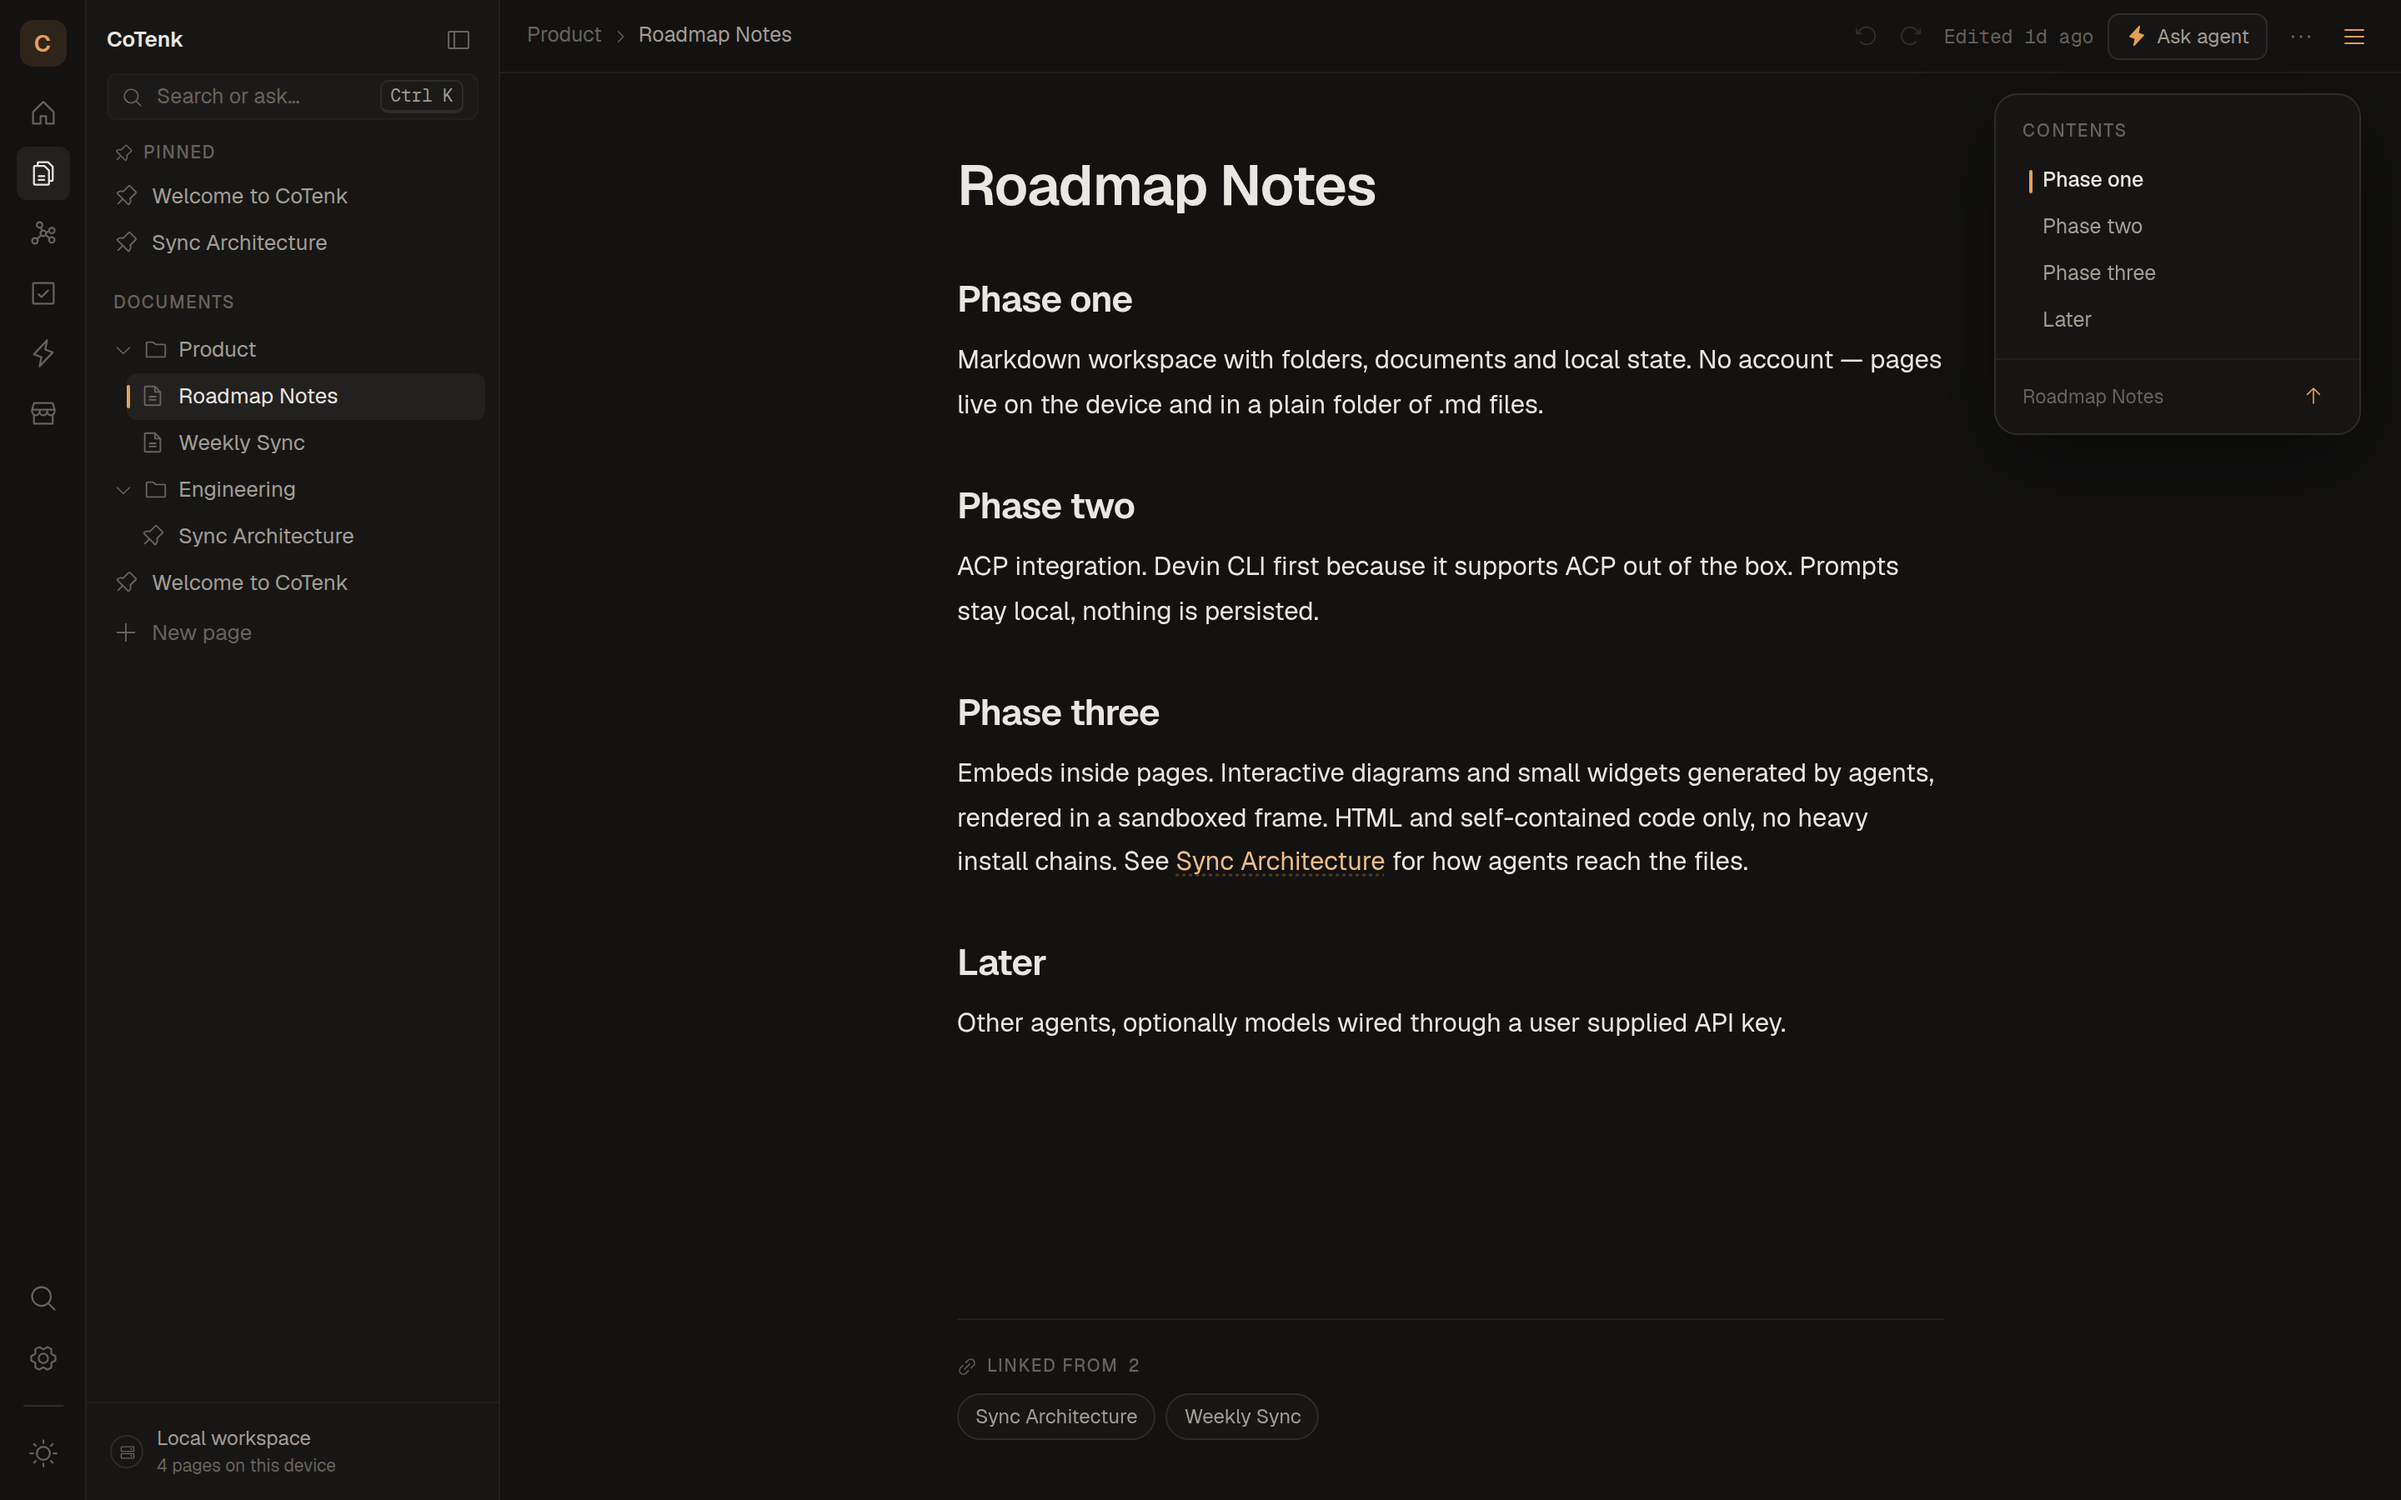
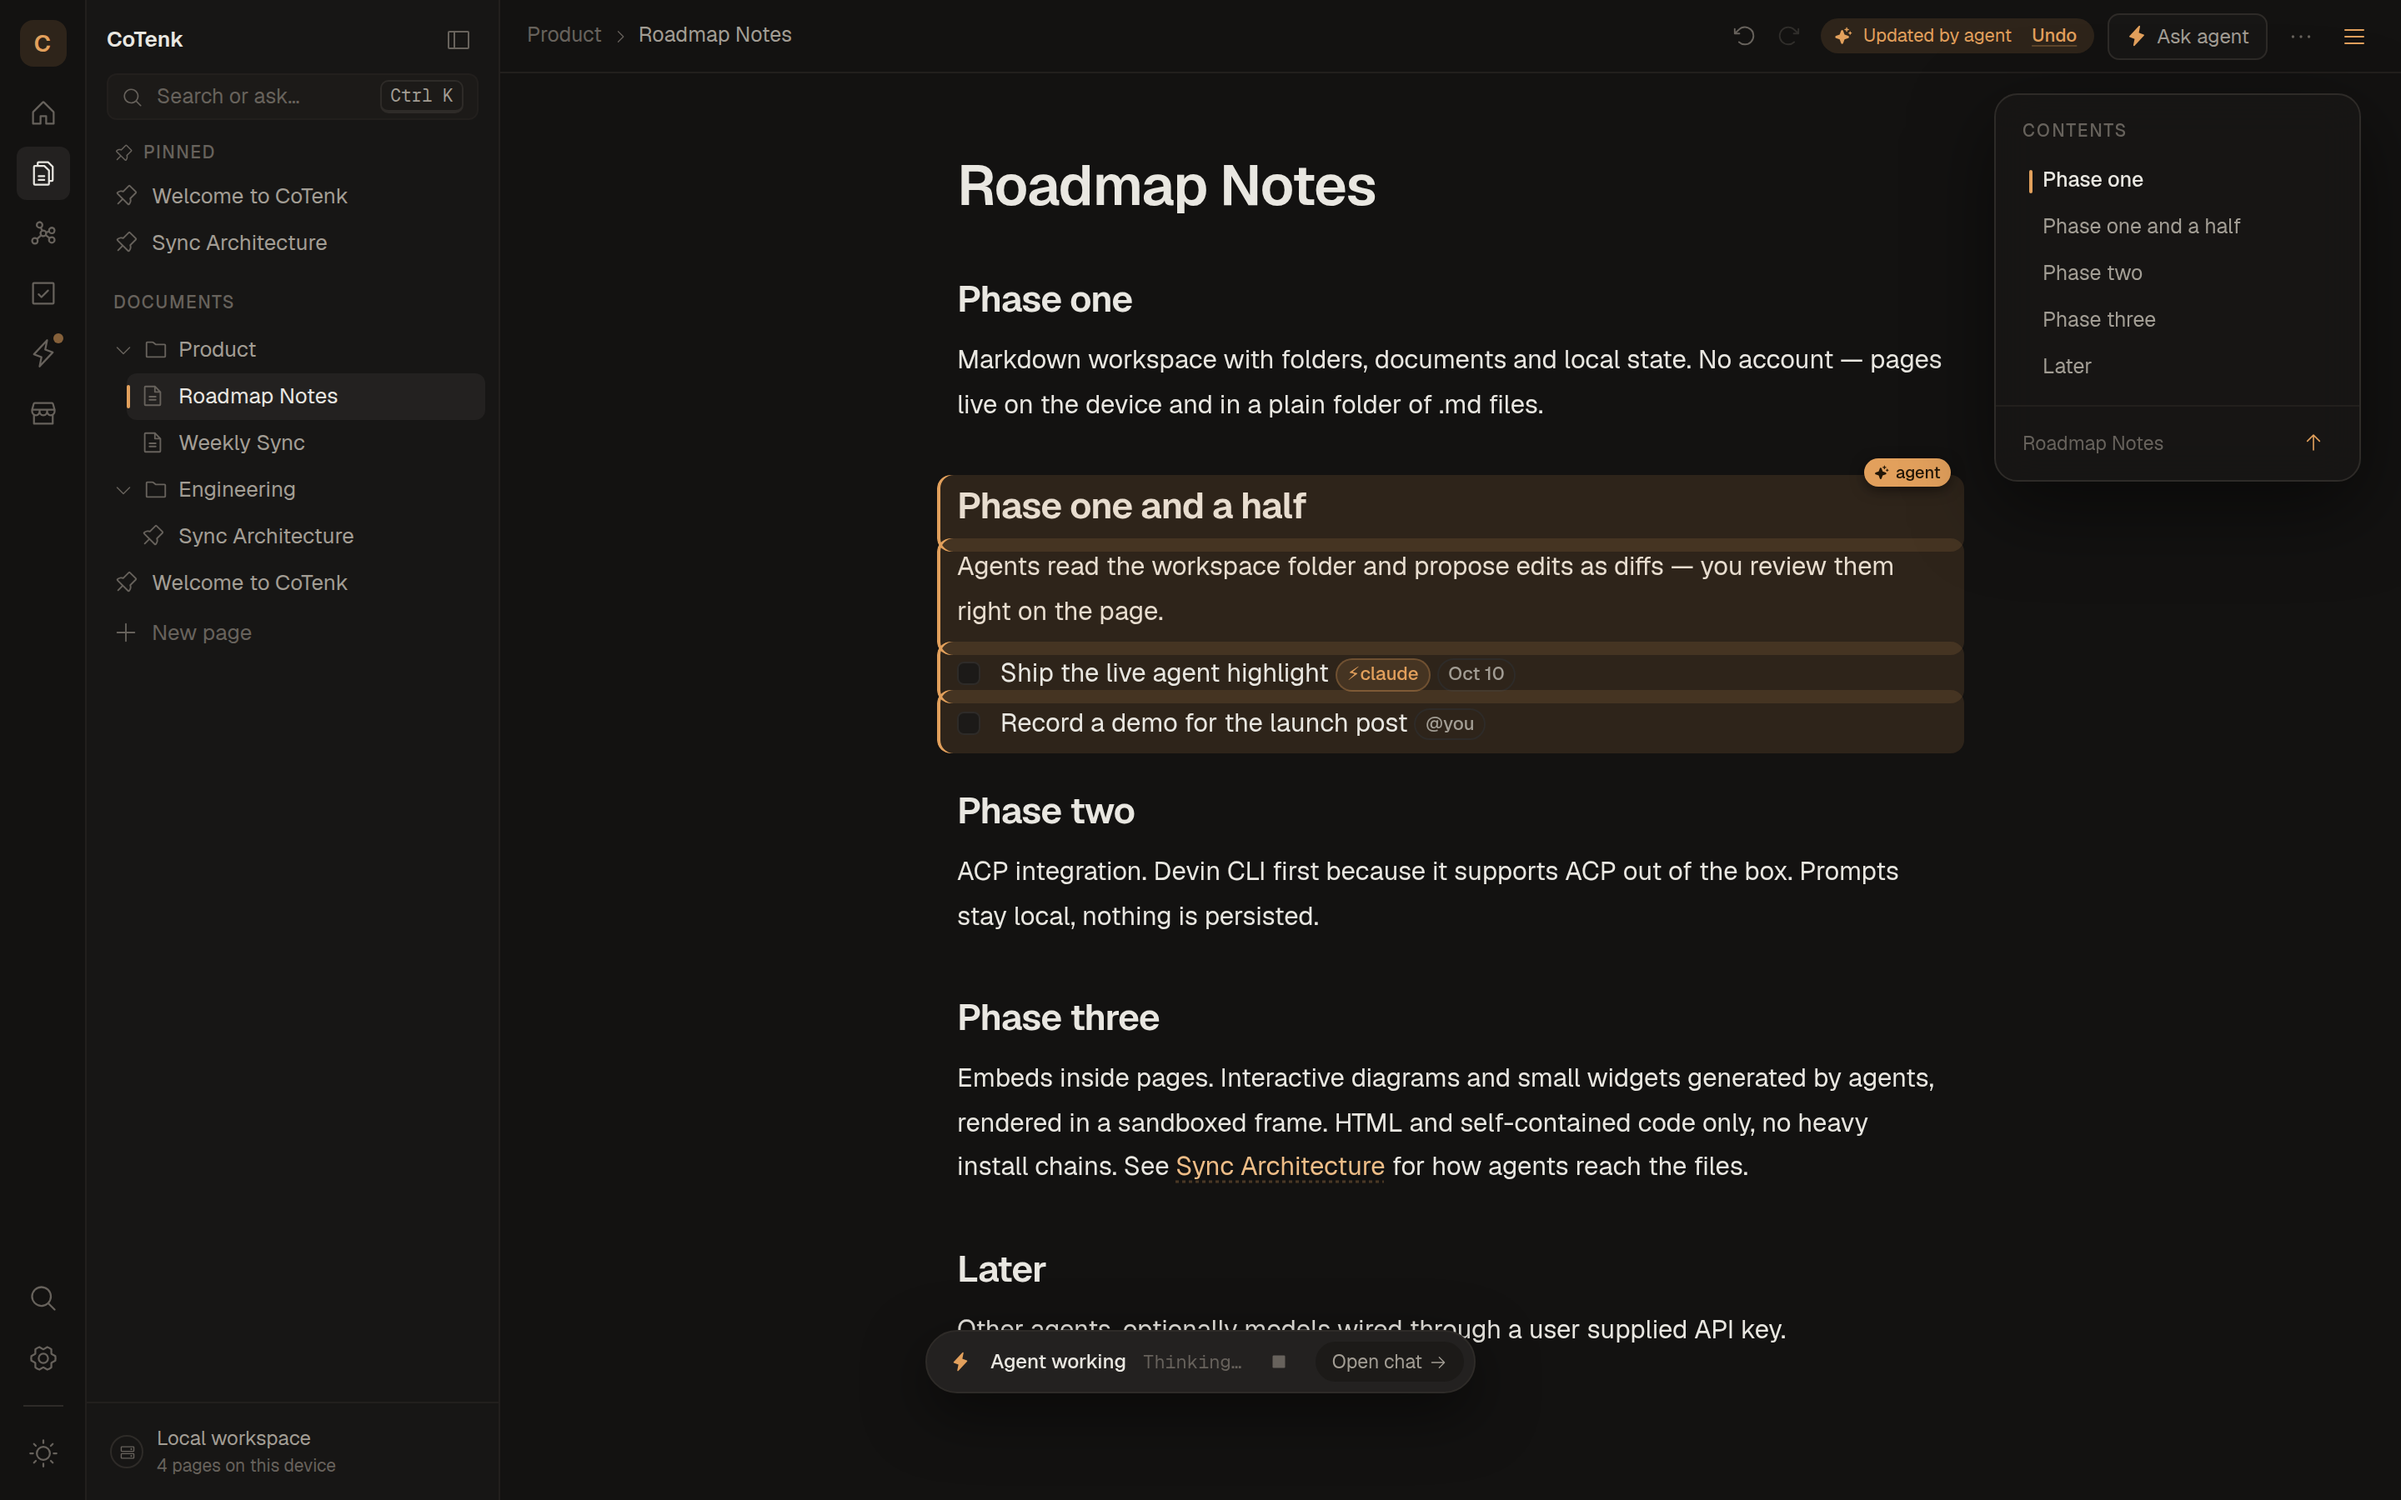
README: one hero shot, sharper positioning
Rewrite the README the way well-known open-source projects do it: logo,
a one-line pitch ("the open-source ChatGPT Spaces — on your machine, with
your own agents"), badges, a single hero screenshot of an agent writing
into a page, a short "why", a comparison table, a compact feature list,
a four-command quick start and the technical docs folded into
collapsible sections. The other screenshots stay in docs/screenshots.

Claude-Session: https://claude.ai/code/session_018LZqANmFZeuhE3iwXsRfDi

diff --git a/README.md b/README.md
@@ -1,120 +1,116 @@
 <div align="center">
 
+<img src="app-icon.png" width="88" alt="CoTenk logo">
+
 # CoTenk
 
-**Think together. Work together.**
+### The open-source ChatGPT Spaces — on your machine, with your own agents.
 
-An open-source, local-first workspace where people and AI agents share
-documents, tasks and context. Your agent writes into the same pages you do.
+One space for your notes, tasks and AI agents. Your agent doesn't chat *about*
+your work — it opens the page and writes into it, while you watch.
 
-No account · no server · no telemetry · plain `.md` files · bring your own agent
-(Claude Code or Devin CLI)
+[![MIT License](https://img.shields.io/badge/license-MIT-a8641c.svg)](LICENSE)
+[![Built with Tauri](https://img.shields.io/badge/built%20with-Tauri%202-24C8DB.svg)](https://tauri.app)
+[![Agents: Claude Code · Devin](https://img.shields.io/badge/agents-Claude%20Code%20%C2%B7%20Devin%20CLI-e2a05c.svg)](#-why-cotenk)
+[![Local-first](https://img.shields.io/badge/local--first-no%20account-232a20.svg)](#-why-cotenk)
 
-![An agent writing into a page — every block it wrote lights up](docs/screenshots/agent-edit.png)
+[Quick start](#-quick-start) · [Why CoTenk](#-why-cotenk) · [Features](#-what-you-get) · [Docs](#-docs)
+
+<br>
+
+<img src="docs/screenshots/agent-edit.png" alt="Claude Code writing into a page in CoTenk — every block it wrote lights up" width="900">
+
+<sub>Claude Code writing into a page. Every block it touched lights up — <kbd>Ctrl</kbd> <kbd>Z</kbd> takes it back.</sub>
 
 </div>
 
-## Why CoTenk
+<br>
 
-- **Your notes stay yours.** Every page is a plain markdown file in your
-  workspace folder (`~/Documents/CoTenk` by default). Back it up, put it
-  in git, open it in Obsidian or any editor.
-- **Agents work on the real files.** Claude Code or Devin CLI edit the
-  `.md` files on disk. The open page follows along live, every block an
-  agent wrote lights up, and Ctrl+Z takes it back.
-- **One place for pages, tasks and agents.** Any `- [ ]` on any page is
-  a task you can hand to an agent. It ticks the task off in the page
-  itself.
+## 💡 Why CoTenk
 
-## Screenshots
+AI workspaces are great — until you notice your notes live on someone
+else's server, in a format you can't take with you, with an assistant you
+didn't choose.
 
-<table>
-  <tr>
-    <td width="50%"><img src="docs/screenshots/welcome.png" alt="Welcome screen with a live demo of an agent writing a page"><br><sub><b>First start</b> — a live demo, then theme and agent setup. No account.</sub></td>
-    <td width="50%"><img src="docs/screenshots/editor.png" alt="Block editor with a live chart embed and tasks"><br><sub><b>Pages</b> — a block editor on plain markdown, with interactive HTML embeds.</sub></td>
-  </tr>
-  <tr>
-    <td><img src="docs/screenshots/agents.png" alt="Chat with Claude Code that read and wrote workspace files"><br><sub><b>Agents</b> — chat with Claude Code or Devin CLI; they read and write your pages.</sub></td>
-    <td><img src="docs/screenshots/graph.png" alt="Graph of pages, folders, people and agents"><br><sub><b>Graph</b> — pages, folders, people and agents as a live map.</sub></td>
-  </tr>
-  <tr>
-    <td><img src="docs/screenshots/tasks-board.png" alt="Task board grouped by due date"><br><sub><b>Tasks</b> — every checkbox across all pages, as a list or a board by due date.</sub></td>
-    <td><img src="docs/screenshots/home.png" alt="Home with greeting, quick actions, checklist and open tasks"><br><sub><b>Home</b> — quick actions, pinned and recent pages, your open tasks.</sub></td>
-  </tr>
-  <tr>
-    <td colspan="2"><img src="docs/screenshots/templates.png" alt="Template gallery"><br><sub><b>Templates</b> — ready pages, some interactive, plus “Build with AI”: describe a page, your agent builds it.</sub></td>
-  </tr>
-</table>
+CoTenk flips that:
 
-## How it works
+- **🗂 Your files, not our cloud.** Every page is a plain `.md` file in a
+  folder on your disk. No account. No server. No telemetry. Open it in
+  Obsidian, put it in git, grep it.
+- **🤖 Bring your own agent.** Claude Code or Devin CLI — the agents you
+  already pay for and trust. They work on the real files, with your skills
+  and MCP servers.
+- **✍ Agents that write, not just talk.** Ask on any page, hand off any
+  task. The agent edits the page live, ticks the task off when it's done,
+  and asks before it changes anything.
 
-Desktop app built with **Tauri + React + TypeScript + Tailwind CSS**.
-Pages, chats, history and settings stay on your machine.
+> **Think together. Work together.** A space where you and your agents share
+> the same pages, the same tasks and the same context.
 
-Agents run locally through the [Agent Client Protocol](https://agentclientprotocol.com)
-(ACP). You bring your own agent:
+| | Hosted AI spaces | **CoTenk** |
+| --- | :---: | :---: |
+| Open source | ❌ | ✅ MIT |
+| Your notes stay on your machine | ❌ | ✅ |
+| Plain markdown you can take anywhere | ❌ | ✅ |
+| Use the agent CLI you already have (Claude Code, Devin) | ❌ | ✅ |
+| Agent edits real files, live | ❌ | ✅ |
+| No account — notes work offline | ❌ | ✅ |
 
-- **Claude Code** — through the `@agentclientprotocol/claude-agent-acp`
-  adapter, using your Claude login.
-- **Devin CLI** — `devin acp`, using your Devin login.
+## ✨ What you get
 
-The Rust backend spawns and owns one subprocess per agent, the frontend
-speaks JSON-RPC over it. Each chat is bound to one agent; Settings →
-Agents shows the connection state and the default. On first start the
-desktop app asks which agents to use and walks through setting each one
-up (`src/components/agents/agent-onboarding.tsx`).
+- **Pages** — a Notion-style block editor on plain markdown. `/` for
+  headings, to-dos, tables, callouts, code, images and files.
+- **Live agent edits** — blocks an agent writes glow as they land. Review
+  every change as a diff, undo with one key.
+- **Tasks everywhere** — any `- [ ]` on any page is a task. `@claude` it
+  and the agent does it. List or kanban board by due date.
+- **Interactive pages** — agents build widgets (charts, trackers, timers)
+  as plain HTML right inside your notes.
+- **Graph** — your pages, folders, people and agents as a live map.
+- **Build with AI** — describe a page, your agent builds it. Or start
+  from a template.
+- **Import in seconds** — drop a Notion export or an Obsidian vault on
+  the window.
+- **Yours to keep** — version history, recently deleted, one-click
+  export of everything.
 
-## Quick start
+## 🚀 Quick start
 
 ```bash
 git clone https://github.com/alexn236/cotenk.git
 cd cotenk
 npm install
-npm run tauri:dev    # desktop app (needs Rust + Tauri prerequisites)
-npm run dev          # or: browser only, without agents
+npm run tauri:dev
 ```
 
-Then connect an agent from Home → "Connect an agent" — details under
-[Setting up an agent](#setting-up-an-agent).
+Then click **Connect an agent** on Home — CoTenk installs Claude Code (or
+finds Devin CLI) and walks you through sign-in. That's it.
 
-## What's inside
+> Needs Node.js, Rust and the [Tauri prerequisites](https://tauri.app/start/prerequisites/).
+> Just want to look around? `npm run dev` runs it in the browser (without agents).
 
-- **Pages** — Notion-style block editor on top of plain markdown. Slash
-  menu (`/`) for headings, to-dos, tables, callouts, code, images, files
-  and embeds.
-- **Interactive embeds** — self-contained HTML blocks rendered in a
-  sandboxed iframe. The app theme is injected as `--ck-*` CSS variables
-  so agent-built widgets match light and dark mode. Widgets keep state
-  across reloads with `cotenk.save(data)` / `cotenk.state` (stored in
-  the block itself).
-- **Import** — drop a Notion export (.zip), an Obsidian vault or .md
-  files anywhere on the window (or Import notes in the sidebar/palette).
-  Links become `[[wikilinks]]`, Notion CSV databases become tables.
-- **Page links** — `[[Page title]]` links pages; every page lists its
-  backlinks under “Linked from”. Pages can be dragged into folders.
-- **Agents in the workspace** — "Ask agent" on every page, "Hand to
-  agent" on every task. The agent edits the real file on disk; the open
-  page follows the change live — every block it writes lights up with an
-  "agent" tag — and Ctrl+Z reverts it.
-- **Graph** — a live map of your pages, the folders they sit in and the
-  people and agents their open tasks belong to. `[[Links]]` and subpages
-  connect pages; drag, zoom, hover to light up a neighborhood, click to
-  open. A small force simulation on a canvas, no library.
-- **Tasks** — every `- [ ]` across all pages, with `@owner` and
-  `due:YYYY-MM-DD` markers, grouped by page or due date, filterable by
-  person or agent. The Board view is a kanban by due date; dragging a
-  card re-dates (or ticks off) the task in its page. Ticking a task off
-  gets a small burst of sparks.
-- **Templates** — curated templates and "Build with AI" (describe a
-  page, the agent builds it).
-- **Version history** — earlier versions of every page and the pages
-  deleted in the past 60 days, kept locally (page menu → Version
-  history, Settings → Data & backup).
-- **Export** — Settings → Data & backup writes a .zip with all pages,
-  chats and attachments.
-- **Command palette** — Ctrl/⌘+K: search pages, run actions, ask the agent.
+## 🤝 Contributing
 
-## Where data lives
+CoTenk is early and moving fast — issues, ideas and PRs are welcome. If
+it's useful to you, a ⭐ helps other people find it.
+
+## 📚 Docs
+
+<details>
+<summary><b>How it works</b></summary>
+
+<br>
+
+Desktop app built with **Tauri + React + TypeScript + Tailwind CSS**.
+Agents run locally through the [Agent Client Protocol](https://agentclientprotocol.com)
+(ACP): the Rust backend spawns one subprocess per agent, the frontend
+speaks JSON-RPC over it. Each chat is bound to one agent.
+
+- **Claude Code** — through the `@agentclientprotocol/claude-agent-acp`
+  adapter, using your Claude login.
+- **Devin CLI** — `devin acp`, using your Devin login.
+
+#### Where data lives
 
 | What | Desktop | Browser (`npm run dev`) |
 | --- | --- | --- |
@@ -140,13 +136,18 @@ pinned: true|false
 Markdown files without `cotenk-id` that appear in the folder (dropped in
 by you or an agent) are adopted as new pages, never deleted.
 
-## Setting up an agent
+</details>
+
+<details>
+<summary><b>Setting up an agent</b></summary>
+
+<br>
 
 The app walks through this itself: Home → "Connect an agent" (or
 Settings → Agents → Set up) checks Node.js, runs the npm install in a
 terminal window and starts the sign-in. By hand:
 
-### Claude Code
+#### Claude Code
 
 ```bash
 npm install -g @anthropic-ai/claude-code              # the CLI
@@ -158,7 +159,7 @@ Without the global adapter the app falls back to `npx -y
 @agentclientprotocol/claude-agent-acp` (first start takes ~10 s).
 `CLAUDE_ACP_BIN` overrides the adapter command.
 
-### Devin CLI
+#### Devin CLI
 
 Install Devin CLI with its own installer and sign in (`devin auth
 login`, or "Connect" in Settings → Agents). `DEVIN_CLI` overrides the
@@ -168,7 +169,7 @@ Agent edits and commands are **reviewed** by default: the app shows the
 change as a block diff and asks before it lands (Settings → Agents →
 Agent changes → Auto-approve turns that off). Reads never ask.
 
-### Skills & MCP servers
+#### Skills & MCP servers
 
 Settings → Agent customisation manages skills and MCP servers that are
 **only usable inside CoTenk** — nothing goes into `~/.claude` or Devin's
@@ -192,7 +193,12 @@ The workspace guide (`src/lib/agent/cotenk-skill.md`) ships the same way
 as the built-in `cotenk-workspace` skill. Secret values (env vars,
 headers) are stored apart from the list.
 
-## Development
+</details>
+
+<details>
+<summary><b>Development</b></summary>
+
+<br>
 
 Prerequisites: Node.js, Rust (`rustup`) and the
 [Tauri prerequisites](https://tauri.app/start/prerequisites/) for your
@@ -213,7 +219,7 @@ No environment variables are required. Optional:
 `VITE_DESKTOP_DOWNLOAD_URL` is where the browser build sends people for
 the desktop app (defaults to this repository's latest release).
 
-### Project layout
+#### Project layout
 
 ```
 src/
@@ -224,6 +230,8 @@ src-tauri/
   src/mcp_gateway.rs  MCP gateway for Devin CLI
 ```
 
-## License
+</details>
 
-[MIT](LICENSE)
+## 📄 License
+
+[MIT](LICENSE) — do whatever you want, just keep the notice.
